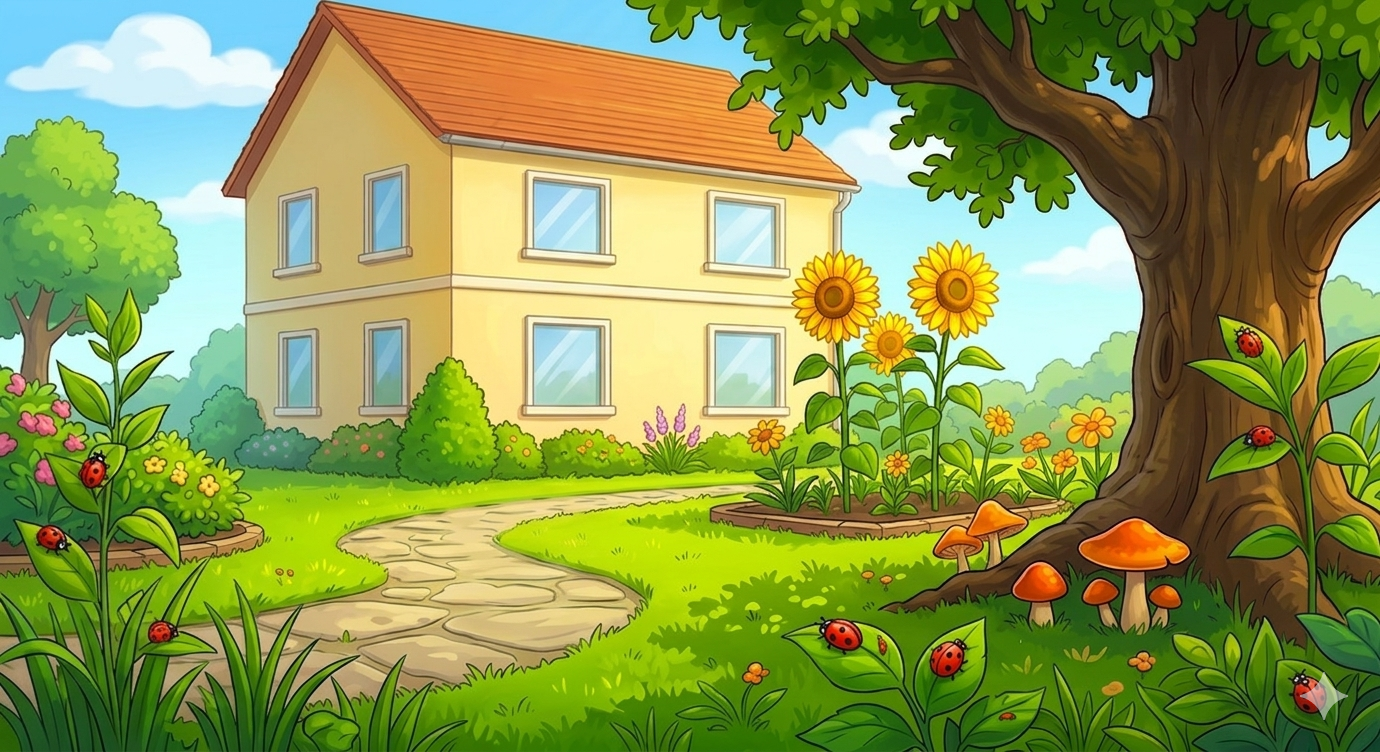
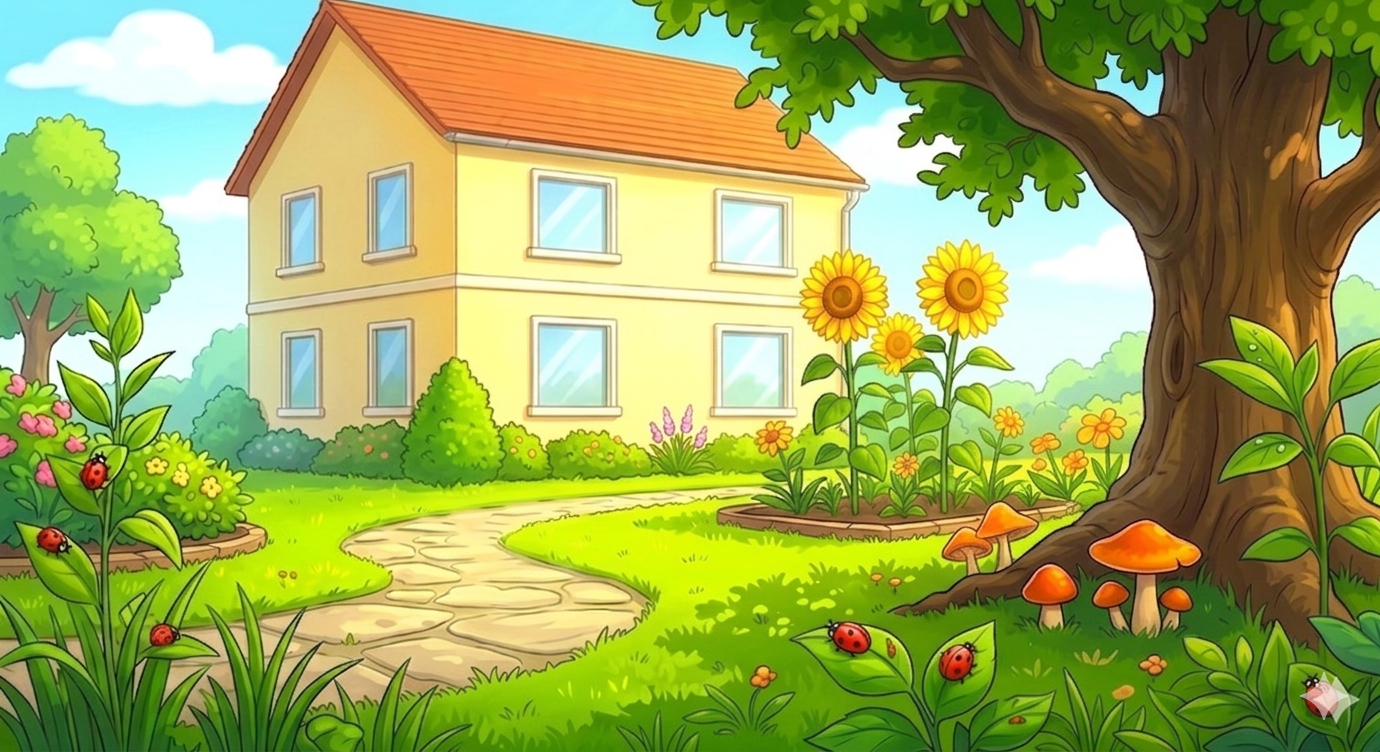
finishhh really!!

diff --git a/index.html b/index.html
@@ -32,7 +32,7 @@
                 <button id="closeBtn" class="modal-close">X</button>
                 <h2>הוראות</h2>
                 <p>ברוכים הבאים למשחק מצא את החתול! עליכם לבצע את המשימות ע"מ להתקדם במשחק ולעבור בין החדרים. בכל חדר
-                    לחצו על החיצים האדומים האדומים הם מכילים משימות או הסברים כיצד לבצע את המשימה, בהצלחה!!!</p>
+                    לחצו על החיצים האדומים הם מכילים משימות או הסברים כיצד לבצע את המשימה, בהצלחה!!!</p>
             </div>
         </div>
         <script src="script/instructions.js"></script>

diff --git a/script/data.js b/script/data.js
@@ -3,7 +3,7 @@ const urlParams = new URLSearchParams(window.location.search);
 const currentLevel = urlParams.get('level') || 'easy';
 const playerName = urlParams.get('name') || 'שחקן אנונימי';
 
-export const locations = [
+ const locations = [
     {
         id: 1,
         text: ` ${playerName} החתלתול הקטן הלך לאיבוד. צריך למצוא אותו!`,
@@ -12,7 +12,7 @@ export const locations = [
         missionItems: [
             {
                 question: "כמה חיפושיות יש בגינה?",
-                correctAnswer: "7",
+                correctAnswer: "6",
             },
             {
                 question: "כמה פטריות יש בגינה?",

diff --git a/script/main_garden.js b/script/main_garden.js
@@ -1,4 +1,4 @@
-import { locations,showLocation } from './data.js';
+import { showLocation } from './data.js';
 
 let currentLocationId;
 let start = false;
